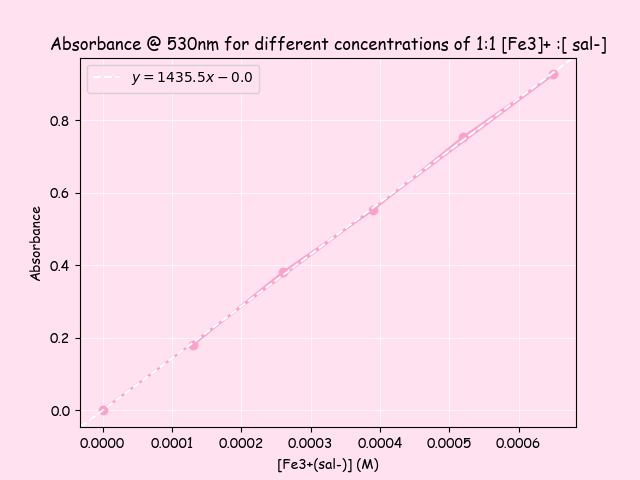
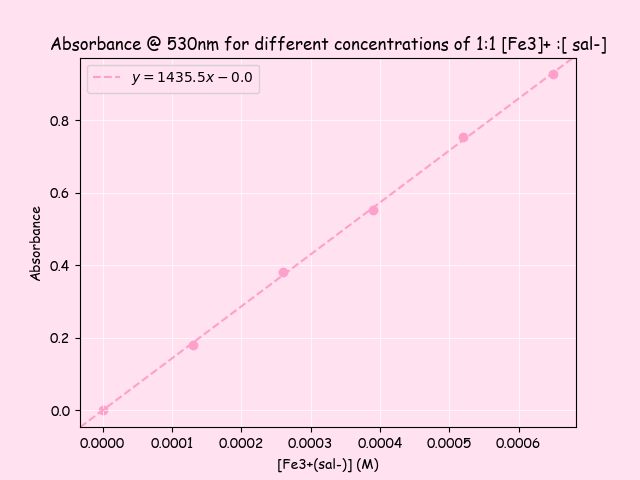
daibolical

diff --git a/part2.py b/part2.py
@@ -238,11 +238,11 @@ x_data_ii /= 1000 #get in mM
 plt.rcParams["font.family"] = "Comic Sans MS"
 plt.rcParams['axes.facecolor'] = "#FFE1EF"
 plt.figure(facecolor="#FFE1EF")
-plt.plot(x_data_ii, absorbance, marker = 'o', color = "#fda0cc" )
+plt.scatter(x_data_ii, absorbance, marker = 'o', color = "#fda0cc" )
 m, b, *_ = stats.linregress(x_data_ii, absorbance)
 q3_ext = m 
 print(f"\nQ3\nExtinction coefficient: {q3_ext} M^(-1)cm^(-1)\n")
-plt.axline(xy1=(0, b), slope=m, label=f'$y = {m:.1f}x {b:+.1f}$', color = "w", linestyle = "--")
+plt.axline(xy1=(0, b), slope=m, label=f'$y = {m:.1f}x {b:+.1f}$', color = "#fda0cc", linestyle = "--")
 plt.xlabel("[Fe3+(sal-)] (M)")
 plt.legend()
 plt.ylabel("Absorbance")
@@ -273,7 +273,7 @@ xerra = np.std(xaxis_4a)
 yerra = np.std(yaxis_4a)
 plt.errorbar(xaxis_4a, yaxis_4a, xerr = xerra , yerr = yerra, color = "#fda0cc", ls = "none") #this line fucked
 m, b, *_ = stats.linregress(xaxis_4a, yaxis_4a)
-plt.axline(xy1=(0, b), slope=m, label=f'$y = {m:.8f}x {b:+.8f}$', color = "w", linestyle = "--")
+plt.axline(xy1=(0, b), slope=m, label=f'$y = {m:.8f}x {b:+.8f}$', color = "#fda0cc", linestyle = "--")
 plt.ylabel("[Fe3+]0 x [sal-]0 / A (M^2)")
 plt.legend()
 plt.xlabel("Absorbance")
@@ -318,7 +318,7 @@ xerrb = np.std(xaxis_4b)
 yerrb = np.std(yaxis_4b)
 plt.errorbar(xaxis_4b, yaxis_4b, xerr = xerrb , yerr = yerrb, color = "#fda0cc", ls = "none")
 m, b, *_ = stats.linregress(xaxis_4b, yaxis_4b)
-plt.axline(xy1=(0, b), slope=m, label=f'$y = {m:.8f}x {b:+.8f}$', color = "w", linestyle = "--")
+plt.axline(xy1=(0, b), slope=m, label=f'$y = {m:.8f}x {b:+.8f}$', color = "#fda0cc", linestyle = "--")
 plt.plot(xaxis_4b, yaxis_4b, marker = 'o', color = "#fda0cc" )
 plt.ylabel("[Fe3+] / A  ^ (1 / 2) (M^2)")
 plt.legend()
